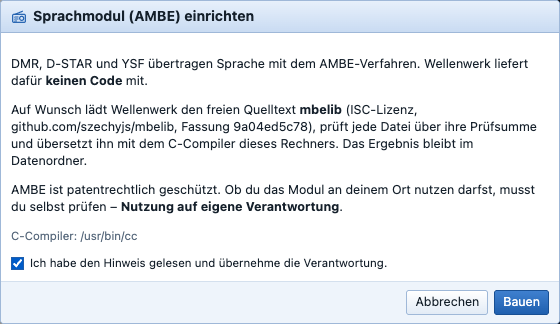
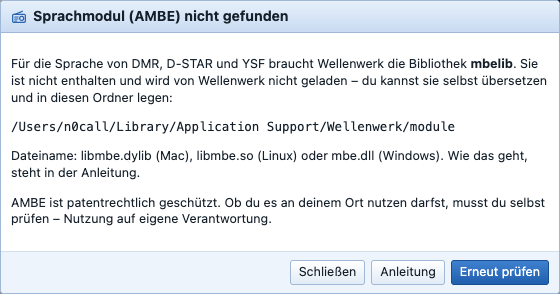
Sprachmodul: Wellenwerk lädt und baut nichts mehr selbst
Der Nutzer übersetzt mbelib selbst und legt die Bibliothek in
<Datenordner>/module (oder installiert sie systemweit); Wellenwerk sucht
sie nur. Bau-API und Download entfernt, Dialog zeigt Ordner und Verweis
auf die Anleitung (neuer Abschnitt mit Bauanleitung Mac/Linux/Windows,
Hilfeseite springt zu Ankern).

Claude-Session: https://claude.ai/code/session_017n9uLddWcii3wRCcwvWadf

Changed region(s): [[0.0, 0.1837, 0.9714, 0.7653], [0.0, 0.7959, 1.0, 0.9796], [0.0, 0.0306, 1.0, 0.1224]]

diff --git a/static/js/sigid-ui.js b/static/js/sigid-ui.js
@@ -556,22 +556,20 @@ function sigTag(o, res) { if (!o.rf || !res.best || ["NOISE", "UNKNOWN"].include
   SIG.tags = SIG.tags.filter(t => t.until > Date.now() && Math.abs(t.rf - o.rf) > 50).concat({ rf: o.rf, label: res.best.label.split(" · ")[0], until: Date.now() + 30000, radio: o.radio }); }
 addEventListener("keydown", e => { if (e.key === "Escape" && SIG.run) sigCancel(); });
 
-// ---------- optionales Sprachmodul (AMBE fuer DMR, D-STAR, YSF): mbelib wird lokal aus dem Originalquelltext gebaut ----------
+// ---------- optionales Sprachmodul (AMBE fuer DMR, D-STAR, YSF): mbelib legt der Nutzer selbst in <Datenordner>/module ----------
 async function voiceModuleReady() {
   let st = await api("/api/voice").catch(() => null); if (!st) return false;
   if (st.state === "ready") return true;
-  const ok = await new Promise(res => { const d = dialog({ title: "Sprachmodul (AMBE) einrichten", icon: "i-radio", buttons: [["Abbrechen", "close"], ["Bauen", "ok", "primary"]], body: `
-    <p>DMR, D-STAR und YSF übertragen Sprache mit dem AMBE-Verfahren. Wellenwerk liefert dafür <b>keinen Code</b> mit.</p>
-    <p>Auf Wunsch lädt Wellenwerk den freien Quelltext <b>mbelib</b> (ISC-Lizenz, github.com/szechyjs/mbelib, Fassung ${esc(st.version)}), prüft jede Datei über ihre Prüfsumme und übersetzt ihn mit dem C-Compiler dieses Rechners. Das Ergebnis bleibt im Datenordner.</p>
-    <p class="warn">AMBE ist patentrechtlich geschützt. Ob du das Modul an deinem Ort nutzen darfst, musst du selbst prüfen – <b>Nutzung auf eigene Verantwortung</b>.</p>
-    ${st.hint ? `<p class="err">${esc(st.hint)}</p>` : `<p class="hint">C-Compiler: ${esc(st.compiler)}</p>`}${st.state === "error" ? `<p class="err">Letzter Versuch: ${esc(st.msg)}</p>` : ""}
-    <label style="flex-direction:row;gap:6px;align-items:center;color:var(--fg)"><input type="checkbox" class="vm-ok" style="width:auto;margin:0"> Ich habe den Hinweis gelesen und übernehme die Verantwortung.</label>` });
-    const okb = d.querySelector('button[value="ok"]'), cb = d.querySelector(".vm-ok"); okb.disabled = true; cb.onchange = () => okb.disabled = !cb.checked || !!st.hint;
-    d.addEventListener("close", () => res(d.returnValue === "ok")); });
-  if (!ok) return false;
-  try { st = await api("/api/voice/build", { method: "POST", body: { accept: true } }); } catch (e) { toast(e.message, true); return false; }
-  toast("Sprachmodul wird gebaut …");
-  for (let i = 0; i < 300 && st.state === "building"; i++) { await new Promise(r => setTimeout(r, 1000)); st = await api("/api/voice").catch(() => st); }
-  if (st.state === "ready") { toast("Sprachmodul bereit"); return true; }
-  toast("Sprachmodul: " + (st.msg || "fehlgeschlagen"), true); return false;
+  const r = await new Promise(res => { const d = dialog({ title: "Sprachmodul (AMBE) nicht gefunden", icon: "i-radio", buttons: [["Schließen", "close"], ["Anleitung", "doc"], ["Erneut prüfen", "ok", "primary"]], body: `
+    <p>Für die Sprache von DMR, D-STAR und YSF braucht Wellenwerk die Bibliothek <b>mbelib</b>. Sie ist nicht enthalten und wird von Wellenwerk nicht geladen – du kannst sie selbst übersetzen und in diesen Ordner legen:</p>
+    <p><code translate="no" style="user-select:all">${esc(st.folder)}</code></p>
+    <p>Dateiname: libmbe.dylib (Mac), libmbe.so (Linux) oder mbe.dll (Windows). Wie das geht, steht in der Anleitung.</p>
+    <p class="warn">AMBE ist patentrechtlich geschützt. Ob du es an deinem Ort nutzen darfst, musst du selbst prüfen – Nutzung auf eigene Verantwortung.</p>
+    ${st.msg ? `<p class="err" translate="no">${esc(st.msg)}</p>` : ""}` });
+    d.addEventListener("close", () => res(d.returnValue)); });
+  if (r === "doc") { window.open("/static/hilfe.html#" + (I18N.lang === "de" ? "sprachmodul-ambe-optional" : "voice-module-ambe-optional"), "_blank", "width=1100,height=860"); return false; }
+  if (r !== "ok") return false;
+  st = await api("/api/voice").catch(() => st);
+  if (st.state === "ready") { toast("Sprachmodul gefunden"); return true; }
+  toast("Sprachmodul noch nicht gefunden", true); return false;
 }

diff --git a/static/hilfe.html b/static/hilfe.html
@@ -25,6 +25,7 @@ fetch("/docs/" + DOC).then(r => { if (!r.ok) throw new Error(EN ? "Document not 
   // Ueberschriften-Anker wie auf GitHub, damit das Inhaltsverzeichnis funktioniert
   el.querySelectorAll("h2, h3").forEach(h => h.id = h.textContent.trim().toLowerCase().replace(/[^\p{L}\p{N}\s-]/gu, "").replace(/\s+/g, "-"));
   el.querySelectorAll('a[href^="http"]').forEach(a => a.target = "_blank");
+  if (location.hash) document.getElementById(decodeURIComponent(location.hash.slice(1)))?.scrollIntoView();
   el.querySelectorAll('a[href="LICENSE"], a[href^="licenses/"]').forEach(a => { a.href = "/docs/" + (a.getAttribute("href") === "LICENSE" ? "LICENSE" : "LIZENZEN.md"); a.target = "_blank"; });
 }).catch(e => document.getElementById("doc").textContent = e.message);
 </script></body></html>

diff --git a/wellenwerk/dvvoice.py b/wellenwerk/dvvoice.py
@@ -1,49 +1,25 @@
 """Optionales Sprachmodul fuer DMR, D-STAR und YSF (AMBE/AMBE+2).
 
-Wellenwerk liefert dafuer keinen Code mit. Auf Knopfdruck (und nur mit ausdruecklicher Zustimmung des Nutzers) wird
-mbelib (ISC-Lizenz, github.com/szechyjs/mbelib) in einer festen Fassung aus dem Originalquelltext geladen, jede Datei
-per SHA-256 geprueft und mit dem C-Compiler des Rechners zu einer Bibliothek im Datenordner uebersetzt. Ob die Nutzung
-der AMBE-Verfahren am eigenen Ort Patent- oder Lizenzrechte beruehrt, verantwortet der Nutzer.
+Wellenwerk enthaelt dafuer keinen Code und laedt auch keinen nach. Wer die Sprache hoeren will, besorgt sich selbst
+mbelib (freier Quelltext, ISC-Lizenz, github.com/szechyjs/mbelib), uebersetzt es und legt die Bibliothek in den Ordner
+<Datenordner>/module/ (oder installiert sie systemweit). Wellenwerk sucht sie nur und bindet sie ein, wenn vorhanden.
+Ob die Nutzung der AMBE-Verfahren am eigenen Ort Patent- oder Lizenzrechte beruehrt, verantwortet der Nutzer.
 
 Die Verschachtelungstabellen fuer DMR und D-STAR stammen aus DSD (ISC-Lizenz, Copyright (C) 2010 DSD Author).
 """
 from __future__ import annotations
 
 import ctypes
-import hashlib
-import io
+import ctypes.util
 import logging
-import shutil
-import subprocess
-import sys
-import tarfile
-import threading
-import urllib.request
 from pathlib import Path
 
 import numpy as np
 
 log = logging.getLogger("ww.voice")
 
-MBELIB_REV = "9a04ed5c78176a9965f3d43f7aa1b1f5330e771f"
-MBELIB_URL = f"https://codeload.github.com/szechyjs/mbelib/tar.gz/{MBELIB_REV}"
-MBELIB_SHA256 = {
[14 lines of base64/hex data omitted]
-}
-LIBNAME = {"darwin": "libmbe.dylib", "win32": "mbe.dll"}.get(sys.platform, "libmbe.so")
+LIBNAMES = ("libmbe.dylib", "libmbe.so", "libmbe.so.1", "mbe.dll", "libmbe.dll")
+NEEDED = ("mbe_initMbeParms", "mbe_processAmbe3600x2400Framef", "mbe_processAmbe3600x2450Framef", "mbe_processAmbe2450Dataf")
 
 # DMR: 36 Dibits je AMBE+2-Rahmen -> ambe_fr[4][24] (Bit 1 nach W/X, Bit 0 nach Y/Z)
 DMR_W = [0, 1, 0, 1, 0, 1, 0, 1, 0, 1, 0, 1, 0, 1, 0, 1, 0, 1, 0, 1, 0, 1, 0, 2, 0, 2, 0, 2, 0, 2, 0, 2, 0, 2, 0, 2]
@@ -57,104 +33,50 @@ DS_X = [10, 22, 11, 9, 10, 22, 11, 23, 8, 20, 9, 21, 10, 8, 9, 21, 8, 6, 7, 19, 
         6, 4, 5, 17, 4, 2, 3, 15, 4, 16, 5, 3, 2, 14, 3, 1, 2, 14, 3, 15, 0, 12, 1, 13, 2, 0, 1, 13, 0, 12, 10, 11, 0, 12, 1, 13]
 
 DATA: Path | None = None                                  # Datenordner (setzt main.py)
-_state = {"state": "missing", "msg": "", "compiler": ""}
 _lib = None
-_lock = threading.Lock()
+_err = ""
 
 
-def _dir(data: Path) -> Path:
-    return data / "module" / "mbelib"
+def folder(data: Path | None = None) -> Path:
+    return Path(data or DATA or ".") / "module"
 
 
-def compiler() -> str:
-    for c in ("cc", "gcc", "clang"):
-        p = shutil.which(c)
-        if p:
-            return p
-    return ""
+def _find(data: Path | None) -> str:
+    for n in LIBNAMES:
+        p = folder(data) / n
+        if p.exists():
+            return str(p)
+    return ctypes.util.find_library("mbe") or ""          # systemweit installiert (z. B. „make install“)
 
 
-def status(data: Path) -> dict:
-    if _state["state"] != "building":
-        if _lib is not None or (_dir(data) / LIBNAME).exists():
-            _state.update(state="ready")
-        elif _state["state"] == "ready":
-            _state.update(state="missing")
-    hint = ""
-    if not compiler():
-        hint = {"darwin": "Kein C-Compiler gefunden – im Terminal „xcode-select --install“ ausführen.",
-                "win32": "Kein C-Compiler gefunden – z. B. w64devkit oder MSYS2 (gcc) installieren und in den PATH aufnehmen."}.get(
-            sys.platform, "Kein C-Compiler gefunden – z. B. „sudo apt install build-essential“.")
-    return dict(_state, compiler=compiler(), hint=hint, version=MBELIB_REV[:10], license="ISC")
-
-
-def build(data: Path) -> None:
-    """Quelltext laden, pruefen, uebersetzen (im Hintergrund aufrufen)."""
-    with _lock:
-        if _state["state"] == "building":
-            return
-        _state.update(state="building", msg="Quelltext wird geladen …")
-    try:
-        cc = compiler()
-        if not cc:
-            raise RuntimeError(status(data)["hint"])
-        raw = urllib.request.urlopen(urllib.request.Request(MBELIB_URL, headers={"User-Agent": "Wellenwerk"}), timeout=60).read()
-        src = _dir(data) / "src"
-        shutil.rmtree(src, ignore_errors=True)
-        src.mkdir(parents=True)
-        with tarfile.open(fileobj=io.BytesIO(raw), mode="r:gz") as tf:
-            for m in tf.getmembers():
-                name = m.name.split("/", 1)[-1]
-                if name in MBELIB_SHA256 and m.isfile():
-                    (src / name).write_bytes(tf.extractfile(m).read())
-        for name, sha in MBELIB_SHA256.items():
-            f = src / name
-            if not f.exists() or hashlib.sha256(f.read_bytes()).hexdigest() != sha:
-                raise RuntimeError(f"Prüfsumme stimmt nicht: {name} – Abbruch, nichts übersetzt")
-        _state["msg"] = "wird übersetzt …"
-        out = _dir(data) / LIBNAME
-        cfiles = [str(src / n) for n in MBELIB_SHA256 if n.endswith(".c")]
-        cmd = [cc, "-O2", "-shared", "-o", str(out), *cfiles, "-I", str(src)]
-        if sys.platform != "win32":
-            cmd[3:3] = ["-fPIC"]
-            cmd.append("-lm")
-        r = subprocess.run(cmd, capture_output=True, text=True, timeout=300)
-        if r.returncode != 0 or not out.exists():
-            raise RuntimeError("Übersetzen fehlgeschlagen: " + (r.stderr or r.stdout)[-400:])
-        _load(data)
-        _state.update(state="ready", msg="")
-        log.info("Sprachmodul (mbelib %s) gebaut: %s", MBELIB_REV[:10], out)
-    except Exception as e:
-        log.warning("Sprachmodul: %s", e)
-        _state.update(state="error", msg=str(e))
-
-
-def remove(data: Path) -> None:
-    global _lib
-    _lib = None                                           # bereits geladene Bibliothek bleibt bis zum Neustart im Speicher
-    shutil.rmtree(_dir(data), ignore_errors=True)
-    _state.update(state="missing", msg="")
-
-
-def _load(data: Path):
-    global _lib
+def _load(data: Path | None = None):
+    global _lib, _err
     if _lib is None:
-        p = _dir(data) / LIBNAME
-        if not p.exists():
+        p = _find(data)
+        if not p:
             return None
-        lib = ctypes.CDLL(str(p))
-        for fn in ("mbe_processAmbe3600x2400Framef", "mbe_processAmbe3600x2450Framef", "mbe_processAmbe2450Dataf"):
-            getattr(lib, fn).restype = None
-        _lib = lib
+        try:
+            lib = ctypes.CDLL(p)
+            for fn in NEEDED:
+                getattr(lib, fn).restype = None
+        except (OSError, AttributeError) as e:
+            _err = f"{p}: {e}"
+            log.warning("Sprachmodul nicht ladbar: %s", _err)
+            return None
+        _lib, _err = lib, ""
+        lib._ww_path = p
+        log.info("Sprachmodul eingebunden: %s", p)
     return _lib
 
 
-def available(data: Path) -> bool:
-    try:
-        return _load(data) is not None
-    except OSError as e:
-        _state.update(state="error", msg=str(e))
-        return False
+def available(data: Path | None = None) -> bool:
+    return _load(data) is not None
+
+
+def status(data: Path | None = None) -> dict:
+    lib = _load(data)
+    return dict(state="ready" if lib else "error" if _err else "missing", path=getattr(lib, "_ww_path", "") if lib else "",
+                folder=str(folder(data)), msg=_err)
 
 
 class Vocoder:

diff --git a/wellenwerk/main.py b/wellenwerk/main.py
@@ -2773,23 +2773,7 @@ async def ws_audio(websocket: WebSocket, radio: str = ""):
 
 @app.get("/api/voice", tags=["Empfänger"])
 async def voice_status():
-    """Optionales Sprachmodul (mbelib, lokal gebaut): Zustand, gefundener C-Compiler, Hinweis."""
-    return dvvoice.status(DATA)
-
-
-@app.post("/api/voice/build", tags=["Empfänger"])
-async def voice_build(body: dict):
-    """Sprachmodul aus dem Originalquelltext bauen – nur mit {"accept": true} (Nutzer uebernimmt die Verantwortung)."""
-    if body.get("accept") is not True:
-        raise HTTPException(400, "Bitte zuerst den Hinweis bestätigen")
-    asyncio.get_running_loop().run_in_executor(None, dvvoice.build, DATA)
-    await asyncio.sleep(0.1)
-    return dvvoice.status(DATA)
-
-
-@app.delete("/api/voice", tags=["Empfänger"])
-async def voice_remove():
-    dvvoice.remove(DATA)
+    """Optionales Sprachmodul (vom Nutzer selbst gebaute mbelib in <Datenordner>/module): Zustand, Fundort, Ordner."""
     return dvvoice.status(DATA)
 
 

diff --git a/docs/Anleitung.md b/docs/Anleitung.md
@@ -257,15 +257,33 @@ Ebenso selbst gelesen werden:
 
 ![M17 von einem eigenen Empfänger, von Wellenwerk selbst dekodiert](bilder/28-eigene-dekoder.png)
 
-**Sprache hören (optionales Sprachmodul).** DMR, D-STAR und YSF übertragen die Sprache mit dem patentgeschützten AMBE-Verfahren. Wellenwerk liefert dafür keinen Code mit. In der Live-Karte gibt es bei diesen Verfahren den Knopf **Sprache**. Beim ersten Druck erklärt ein Hinweis, was passiert: Wellenwerk lädt den freien Quelltext *mbelib* (ISC-Lizenz) in einer festen Fassung, prüft jede Datei über ihre Prüfsumme und übersetzt ihn mit dem C-Compiler des Rechners. Das dauert wenige Sekunden, das Ergebnis bleibt im Datenordner. Ob die Nutzung am eigenen Ort erlaubt ist, muss jeder selbst prüfen – **Nutzung auf eigene Verantwortung**; ohne Bestätigung wird nichts geladen.
-
-Danach hört man statt des Digitalrauschens die dekodierte Sprache, etwa 1–2 Sekunden verzögert. Bei DMR folgt Wellenwerk dem Zeitschlitz, der zuerst spricht. Der Pegel wird automatisch angepasst. Ein C-Compiler wird gebraucht: am Mac „xcode-select --install“, unter Linux „build-essential“, unter Windows z. B. w64devkit oder MSYS2. M17 (Codec2) und Senden über einen MMDVM-Hotspot folgen.
-
-![Hinweis vor dem Einrichten des Sprachmoduls](bilder/29-sprachmodul.png)
+**Sprache hören:** siehe [Sprachmodul (AMBE, optional)](#sprachmodul-ambe-optional).
 
 **Weitere Dekoder der Empfänger:** Bietet ein OpenWebRX+ sie an, stehen im Fenster *Datenempfang* und in der Karte auch **FT8, FT4, WSPR, JT65, JT9, FST4, Q65, MSK144, JS8Call** (mit Name zum Rufzeichen), **PSK31/63, RTTY** (auch 50 Bd/450 Hz des Wetterdienstes), **CW, NAVTEX, SITOR-B, DSC, AIS** (Schiffe), **ADS-B/Mode S** (Flugzeuge mit Kennung, Höhe, Geschwindigkeit, Position), **LoRa-APRS, Meshtastic, MeshCom, MeshCore** und **FANET** zur Verfügung. Ein Klick auf 162 MHz (AIS), 1090 MHz (ADS-B), 433,775 MHz (LoRa-APRS), 433,175 MHz (MeshCom), 869,5 MHz (Meshtastic), 156,525 MHz bzw. die Kurzwellen-DSC-Frequenzen und 490/518 kHz (NAVTEX) schaltet den passenden Dekoder direkt ein; bei erkanntem FT8 & Co. bietet die Karte „Vom Empfänger dekodieren lassen“ an. Bewusst nicht angeboten werden Pager, Selektivruf/ZVEI, Firmendaten der Luftfahrt (ACARS, VDL2, HFDL), Verbrauchszähler und LoRaWAN – deren Empfang ist in Deutschland nicht erlaubt (§ 5 TDDDG). Schiffsradar (9 GHz) liegt außerhalb der Empfänger. Alle Meldungen sammelt das Fenster **Ansicht → Datenempfang**; dort lässt sich ein Dekoder auch von Hand wählen. Welche Dekoder ein Empfänger bietet, meldet er selbst. Hinweis: Sprache digitaler Verfahren hörst du nur, wenn der Server sie ausgibt; Wellenwerk zeigt die Kennungen und Texte.
 
 **Alt+Klick** stimmt nur ab, ohne Erkennung. In AM, FM und CW stimmt ein Klick wie bisher direkt ab. Ein- und ausschalten und die Höchstdauer einstellen unter **F8 → Wasserfall**. Die Erkennung ist eine gut begründete Schätzung, kein Beweis: bei sehr schwachen oder sich überlagernden Signalen meldet sie lieber „unbekanntes Signal“ mit Vermutungen.
+
+### Sprachmodul (AMBE, optional)
+
+DMR, D-STAR und YSF übertragen die Sprache mit dem patentgeschützten AMBE-Verfahren. Wellenwerk enthält dafür **keinen Code und lädt auch keinen nach**. Wer die Sprache hören möchte, besorgt sich den freien Quelltext *mbelib* (ISC-Lizenz) selbst, übersetzt ihn und legt die fertige Bibliothek in den Ordner **`module`** im Datenordner von Wellenwerk. Ob die Nutzung am eigenen Ort erlaubt ist, muss jeder selbst prüfen – **Nutzung auf eigene Verantwortung**.
+
+Der Datenordner liegt standardmäßig unter `~/Library/Application Support/Wellenwerk` (Mac), `%APPDATA%\Wellenwerk` (Windows) bzw. `~/.local/share/wellenwerk` (Linux). Den genauen Ordner zeigt der Knopf **Sprache** in der Live-Karte an, solange noch kein Modul gefunden wurde. Wellenwerk sucht dort nach `libmbe.dylib` (Mac), `libmbe.so` (Linux) bzw. `mbe.dll` (Windows); eine systemweit installierte mbelib wird ebenfalls gefunden.
+
+**Mac** (einmalig „xcode-select --install“ für den C-Compiler):
+
+```
+git clone https://github.com/szechyjs/mbelib.git
+cd mbelib
+cc -O2 -shared -fPIC -o libmbe.dylib ambe3600x2400.c ambe3600x2450.c ecc.c imbe7100x4400.c imbe7200x4400.c mbelib.c -lm
+```
+
+**Linux** (Paket „build-essential“): wie oben, nur mit `-o libmbe.so`.
+
+**Windows** (z. B. mit w64devkit oder MSYS2/gcc): wie oben, mit `gcc` statt `cc`, ohne `-fPIC` und `-lm`, Ausgabe `-o mbe.dll`.
+
+Die erzeugte Datei in den Ordner `module` verschieben (ggf. anlegen). Ein Neustart ist nicht nötig. Danach schaltet der Knopf **Sprache** die Ausgabe ein: Statt des Digitalrauschens hört man die dekodierte Sprache, etwa 1–2 Sekunden verzögert. Bei DMR folgt Wellenwerk dem Zeitschlitz, der zuerst spricht; der Pegel wird automatisch angepasst. M17 (Codec2) und Senden über einen MMDVM-Hotspot folgen.
+
+![Hinweis, solange kein Sprachmodul gefunden wurde](bilder/29-sprachmodul.png)
 
 ### Fernbetrieb-Audio
 

diff --git a/docs/Manual.md b/docs/Manual.md
@@ -263,15 +263,33 @@ Also read by Wellenwerk itself:
 
 ![M17 from your own receiver, decoded by Wellenwerk itself](bilder/28-eigene-dekoder.png)
 
-**Listening to voice (optional voice module).** DMR, D-STAR and YSF transmit voice with the patented AMBE method. Wellenwerk ships no code for it. For these systems the live card has a **Voice** button. On the first press a notice explains what happens: Wellenwerk downloads the free source code *mbelib* (ISC licence) in a fixed version, checks every file by its checksum and compiles it with the computer's C compiler. This takes a few seconds; the result stays in the data folder. Whether you may use it where you live is for you to check – **use at your own risk**; nothing is downloaded without confirmation.
-
-Afterwards you hear the decoded voice instead of the digital noise, delayed by about 1–2 seconds. With DMR Wellenwerk follows the time slot that speaks first. The level is adjusted automatically. A C compiler is needed: on a Mac “xcode-select --install”, on Linux “build-essential”, on Windows e.g. w64devkit or MSYS2. M17 (Codec2) and transmitting via an MMDVM hotspot will follow.
-
-![Notice before setting up the voice module](bilder/29-sprachmodul.png)
+**Listening to voice:** see [Voice module (AMBE, optional)](#voice-module-ambe-optional).
 
 **More receiver decoders:** if an OpenWebRX+ offers them, the *Data reception* window and the card also provide **FT8, FT4, WSPR, JT65, JT9, FST4, Q65, MSK144, JS8Call** (with the name for the callsign), **PSK31/63, RTTY** (also the weather service's 50 Bd/450 Hz), **CW, NAVTEX, SITOR-B, DSC, AIS** (ships), **ADS-B/Mode S** (aircraft with ID, altitude, speed, position), **LoRa APRS, Meshtastic, MeshCom, MeshCore** and **FANET**. A click on 162 MHz (AIS), 1090 MHz (ADS-B), 433.775 MHz (LoRa APRS), 433.175 MHz (MeshCom), 869.5 MHz (Meshtastic), 156.525 MHz or the HF DSC frequencies and 490/518 kHz (NAVTEX) switches on the matching decoder directly; for detected FT8 etc. the card offers “Let the receiver decode”. Deliberately not offered: pagers, selective calling/ZVEI, airline company data (ACARS, VDL2, HFDL), utility meters and LoRaWAN – receiving them is not permitted in Germany (§ 5 TDDDG). Marine radar (9 GHz) is outside the receivers' range. All messages are collected in **View → Data reception**; a decoder can also be chosen there by hand. A receiver reports which decoders it offers. Note: you hear digital voice only if the server outputs it; Wellenwerk shows the IDs and texts.
 
 **Alt+click** only tunes, without identification. In AM, FM and CW a click tunes directly as before. Switch on/off and set the maximum duration under **F8 → Waterfall**. The identification is a well-founded estimate, not proof: with very weak or overlapping signals it prefers to report “unknown signal” with guesses.
+
+### Voice module (AMBE, optional)
+
+DMR, D-STAR and YSF transmit voice with the patented AMBE method. Wellenwerk contains **no code for it and does not download any**. If you want to hear the voice, get the free source code *mbelib* (ISC licence) yourself, compile it and put the finished library into the folder **`module`** in Wellenwerk's data folder. Whether you may use it where you live is for you to check – **use at your own risk**.
+
+By default the data folder is `~/Library/Application Support/Wellenwerk` (Mac), `%APPDATA%\Wellenwerk` (Windows) or `~/.local/share/wellenwerk` (Linux). The **Voice** button in the live card shows the exact folder as long as no module has been found. Wellenwerk looks there for `libmbe.dylib` (Mac), `libmbe.so` (Linux) or `mbe.dll` (Windows); a system-wide installed mbelib is found as well.
+
+**Mac** (once “xcode-select --install” for the C compiler):
+
+```
+git clone https://github.com/szechyjs/mbelib.git
+cd mbelib
+cc -O2 -shared -fPIC -o libmbe.dylib ambe3600x2400.c ambe3600x2450.c ecc.c imbe7100x4400.c imbe7200x4400.c mbelib.c -lm
+```
+
+**Linux** (package “build-essential”): as above, just with `-o libmbe.so`.
+
+**Windows** (e.g. with w64devkit or MSYS2/gcc): as above, with `gcc` instead of `cc`, without `-fPIC` and `-lm`, output `-o mbe.dll`.
+
+Move the resulting file into the folder `module` (create it if needed). No restart is needed. The **Voice** button then switches the output on: instead of the digital noise you hear the decoded voice, delayed by about 1–2 seconds. With DMR Wellenwerk follows the time slot that speaks first; the level is adjusted automatically. M17 (Codec2) and transmitting via an MMDVM hotspot will follow.
+
+![Notice as long as no voice module has been found](bilder/29-sprachmodul.png)
 
 ### Remote audio
 

diff --git a/LIZENZEN.md b/LIZENZEN.md
@@ -57,7 +57,7 @@ FT8/FT4-Dekoder von Karlis Goba, https://github.com/kgoba/ft8_lib – MIT-Lizenz
 
 ## Sprachmodul (optional, wird nicht mitgeliefert)
 
-- **mbelib** (https://github.com/szechyjs/mbelib, Copyright (C) 2010 mbelib Author, ISC-Lizenz): wird nur auf ausdrücklichen Wunsch des Nutzers in einer festen Fassung (Commit 9a04ed5c) aus dem Originalquelltext geladen, per SHA-256 geprüft und auf dessen Rechner übersetzt (wellenwerk/dvvoice.py). Wellenwerk enthält keinen mbelib-Code. AMBE ist patentrechtlich geschützt; die Nutzung verantwortet der Nutzer.
+- **mbelib** (https://github.com/szechyjs/mbelib, Copyright (C) 2010 mbelib Author, ISC-Lizenz): weder enthalten noch von Wellenwerk geladen. Wer die Sprache hören will, übersetzt mbelib selbst und legt die Bibliothek in den Ordner `module` des Datenordners; Wellenwerk bindet sie dann ein (wellenwerk/dvvoice.py). AMBE ist patentrechtlich geschützt; die Nutzung verantwortet der Nutzer.
 - **Verschachtelungstabellen für DMR- und D-STAR-Sprachrahmen** in wellenwerk/dvvoice.py aus DSD (https://github.com/szechyjs/dsd, Copyright (C) 2010 DSD Author, ISC-Lizenz):
 
   > Permission to use, copy, modify, and/or distribute this software for any purpose with or without fee is hereby granted, provided that the above copyright notice and this permission notice appear in all copies.
